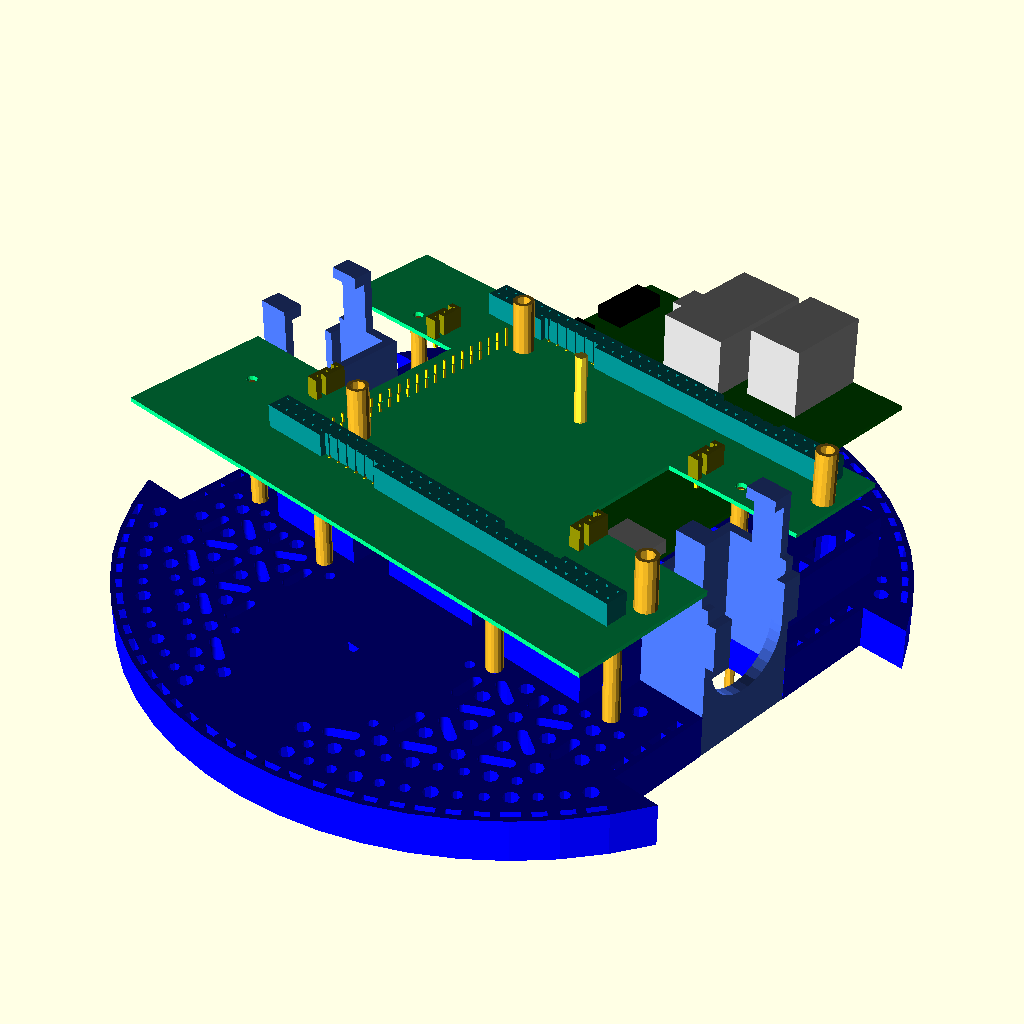
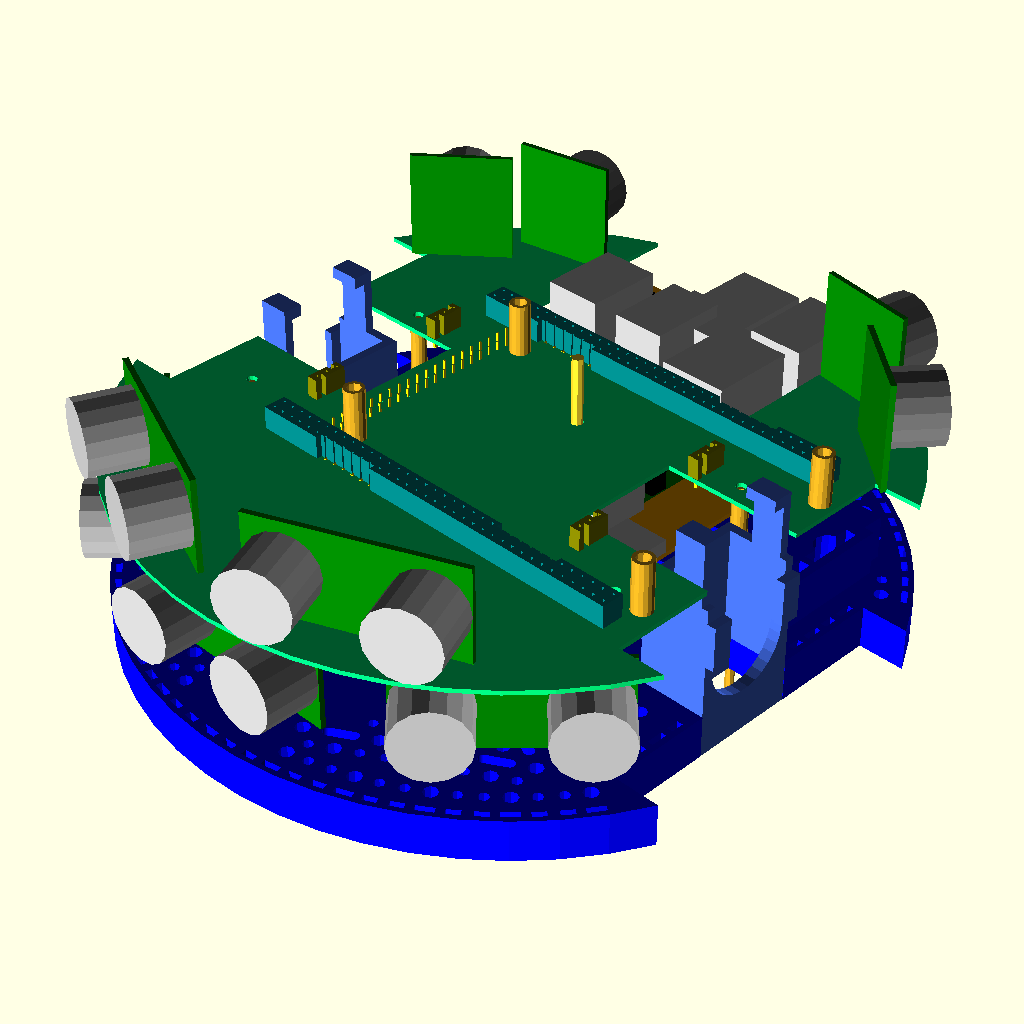
Added some sonars to the master board.

Changed region(s): [[0.0625, 0.3438, 0.7188, 0.7812], [0.375, 0.125, 0.9375, 0.5]]

diff --git a/mechanical/scad_models/scad_models.py b/mechanical/scad_models/scad_models.py
@@ -448,6 +448,63 @@ class EncoderBoard:
         self.module: Module3D = module
 
 
+# HCSR04:
+class HCSR04:
+    """Represents an HC-SR04 sonar module."""
+
+    # HCSR04.__init__():
+    def __init__(self, scad_program: ScadProgram) -> None:
+        """Initialize anHCSR04."""
+        # Create the PCB:
+        pcb_dy: float = 20.60
+        pcb_dx: float = 44.50
+        pcb_dz: float = 1.20
+        pcb_square: Square = Square("HCSR04 PCB", pcb_dx, pcb_dy, center=P2D(0.0, pcb_dy / 2.0))
+        extruded_pcb: LinearExtrude = LinearExtrude("Extruded HCSR04 PCB", pcb_square, pcb_dz)
+        colored_pcb: Color = Color("Colored HRCSR04", extruded_pcb, "Green")
+
+        # Create the sonar cylinders:
+        sonar_diameter: float = 16.00
+        sonar_radius: float = sonar_diameter / 2.0
+        sonar_dz: float = 12.00
+        sonar_left_x: float = pcb_dx / 2.0 - sonar_radius
+        sonar_right_x: float = -pcb_dx / 2.0 + sonar_radius
+        sonar_start_z: float = pcb_dz
+        sonar_end_z: float = sonar_start_z + sonar_dz
+        left_start: P3D = P3D(sonar_left_x, pcb_dy/2, sonar_start_z)
+        left_end: P3D = P3D(sonar_left_x, pcb_dy/2, sonar_end_z)
+        right_start: P3D = P3D(sonar_right_x, pcb_dy/2, sonar_start_z)
+        right_end: P3D = P3D(sonar_right_x, pcb_dy/2, sonar_end_z)
+        left_cylinder: Cylinder = Cylinder("Left Sonar Transducer",
+                                           sonar_diameter, left_start, left_end, 16)
+        right_cylinder: Cylinder = Cylinder("Left Sonar Transducer",
+                                            sonar_diameter, right_start, right_end, 16)
+        colored_left_cylinder: Color = Color("Colored Left Sonar Transducer",
+                                             left_cylinder, "Silver")
+        colored_right_cylinder: Color = Color("Colored Right Sonar Transducer",
+                                              right_cylinder, "Silver")
+        hcsr04_union: Union3D = Union3D("HCSR04 Union", [
+            colored_pcb,
+            colored_left_cylinder,
+            colored_right_cylinder
+        ])
+
+        # Now tilt the sonar up followed by rotating it to vertical:
+        x_axis: P3D = P3D(1.0, 0.0, 0.0)
+        degrees90: float = pi / 2.0
+        vertical_hcsr04: Rotate3D = Rotate3D("Veritcal HC-SR04", hcsr04_union, degrees90, x_axis)
+        z_axis: P3D = P3D(0.0, 0.0, 1.0)
+        east_facing_hcsr04: Rotate3D = Rotate3D("East Facing HC-S404",
+                                                vertical_hcsr04, degrees90, z_axis)
+
+        # Create *module*, append to *scad_program*, and save into *hcsr04* (i.e. *self*):
+        module: Module3D = Module3D("HR SR04 Sonar Module", [east_facing_hcsr04])
+        scad_program.append(module)
+        scad_program.if3d.name_match_append("sonar", module, ["HC-SR04 Sonar"])
+        # hcsr04: HCSR04 = self
+        self.module: Module3D = module
+
+
 # HR2BaseAssembly:
 class HR2BaseAssembly:
     """Represents the HR2 base with motor holders and spacers."""
@@ -1038,9 +1095,9 @@ class MasterBoard:
         wheel_well_angle: float = asin(half_wheel_well_dy / radius)
 
         # By trial and error, the Pi connector *cutout_dx* (=|GE|) = 60mm and the *cut_out_y*
-        # Fy (=|FZ|) is 33mm.  The same basic math yields the *cut_out_angle*
+        # Fy (=|FZ|) is 32.5mm.  The same basic math yields the *cut_out_angle*
         # (Dx=R*cos(@) => @=acos(Dx/R) ):
-        cut_out_y: float = 33.0
+        cut_out_y: float = 32.5
         cut_out_dx: float = 60.0
         half_cut_out_dx: float = cut_out_dx / 2.0
         cut_out_angle: float = acos(half_cut_out_dx / radius)
@@ -1263,10 +1320,64 @@ class MasterBoard:
                                                   P3D(0.0, 0.0, pcb_bottom_z))
         colored_pcb: Color = Color("Green Color", translated_pcb, "SpringGreen")
 
+        # Create some HC-SR04 sonars:
+        hcsr04: HCSR04 = HCSR04(scad_program)
+        srf02: SRF02 = SRF02(scad_program)
+        hcsr04_use_module: UseModule3D = hcsr04.module.use_module_get()
+        srf02_use_module: UseModule3D = srf02.module.use_module_get()
+        sonars: List[Scad3D] = []
+        degrees2radians: float = pi / 180.0
+        sonar_poses: List[Tuple[float, float, bool, bool]] = [
+            # (*rim_angle*, *beam_angle* (-1 => same), *on_bottom*, *is_srf02*)
+            ((90.0 - 2.4 * 22.5) * degrees2radians,
+             (90.0 - 40.0) * degrees2radians, False, True),
+            ((90.0 - 1.6 * 22.5) * degrees2radians,
+             (90.0 - 10.0) * degrees2radians, False, True),
+            # No rear center sonar:
+            ((90.0 + 1.6 * 22.5) * degrees2radians,
+             (90.0 + 10.0) * degrees2radians, False, True),
+            ((90.0 + 2.4 * 22.5) * degrees2radians,
+             (90.0 + 40.0) * degrees2radians, False, True),
+            # Front Sonars:
+            ((270.0 - 2 * 22.5) * degrees2radians, -1.0, True, False),
+            ((270.0 - 1 * 22.5) * degrees2radians, -1.0, False, False),
+            ((270.0) * degrees2radians, -1.0, True, False),
+            ((270.0 + 1 * 22.5) * degrees2radians, -1.0, False, False),
+            ((270.0 + 2 * 22.5) * degrees2radians, -1.0, True, False)]
+        x_axis: P3D = P3D(1.0, 0.0, 0.0)
+        z_axis: P3D = P3D(0.0, 0.0, 1.0)
+        sonars_radius: float = 70.0
+        rim_angle: float
+        beam_angle: float
+        on_bottom: bool
+        is_srf02: bool
+        for rim_angle, beam_angle, on_bottom, is_srf02 in sonar_poses:
+            if beam_angle < 0.0:
+                beam_angle = rim_angle
+            angle_text: str = f"{rim_angle * 180.0 / pi}deg:{on_bottom}"
+            sonar_z: float = pcb_top_z
+            sonar: Scad3D = srf02_use_module if is_srf02 else hcsr04_use_module
+
+            # Deal with *on_bottom* first:
+            if on_bottom:
+                sonar_z = pcb_bottom_z
+                sonar = Rotate3D(f"Bottom Sonar ({angle_text})", sonar, degrees180, x_axis)
+
+            # Now rotate the *sonar* by *beam_angle* along the *z_axis*:
+            sonar = Rotate3D(f"Rotated Sonar ({angle_text})", sonar, beam_angle, z_axis)
+
+            # Now position *sonar* to *sonar_position* along the rim and tack onto *sonars* list:
+            sonar_x: float = sonars_radius * cos(rim_angle)
+            sonar_y: float = sonars_radius * sin(rim_angle)
+            sonar_position: P3D = P3D(sonar_x, sonar_y, sonar_z)
+            sonar = Translate3D(f"Translated Sonar ({angle_text})", sonar, sonar_position)
+            sonars.append(sonar)
+
         # Create *module*, append it to *scad_program* and stuff it into *master_pcb* (i.e. *self*):
         module: Module3D = Module3D("Master Board Module",
                                     (encoder_receptacles_use_modules +
                                      nucleo144_spacers +
+                                     sonars +
                                      [colored_pcb,
                                       receptacle_2x20.module.use_module_get(),
                                       north_morpho_connector.module.use_module_get(),
@@ -3864,6 +3975,53 @@ class Spacer:
         colored_washer: Color = Color(f"{washer_color} {name}", translated_washer, washer_color)
         spacer_stack.append(colored_washer)
         return start_z + washer_height
+
+
+# SRF02:
+class SRF02:
+    """Represents an Devantech SRF02 sonar module."""
+
+    # HCSR04.__init__():
+    def __init__(self, scad_program: ScadProgram) -> None:
+        """Initialize anHCSR04."""
+        # Create the PCB:
+        pcb_dy: float = 24.0
+        pcb_dx: float = 22.0
+        pcb_dz: float = 1.20
+        pcb_square: Square = Square("SRF02 PCB", pcb_dx, pcb_dy, center=P2D(0.0, pcb_dy / 2.0))
+        extruded_pcb: LinearExtrude = LinearExtrude("Extruded SRF02 PCB", pcb_square, pcb_dz)
+        colored_pcb: Color = Color("Colored HRCSR04", extruded_pcb, "Green")
+
+        # Create the sonar transducer:
+        transducer_diameter: float = 16.00
+        transducer_dz: float = 12.00  # Pure guess, not in spec. sheet
+        transducer_start_z: float = pcb_dz
+        transducer_end_z: float = transducer_start_z + transducer_dz
+        transducer_start: P3D = P3D(0.0, pcb_dy/2, transducer_start_z)
+        transducer_end: P3D = P3D(0.0, pcb_dy/2, transducer_end_z)
+        transducer: Cylinder = Cylinder("Left Sonar Transducer",
+                                        transducer_diameter, transducer_start, transducer_end, 16)
+        colored_transducer: Color = Color("Colored Sonar Transducer", transducer, "Gray")
+
+        srf02_union: Union3D = Union3D("SRF02 Union", [
+            colored_pcb,
+            colored_transducer
+        ])
+
+        # Now tilt the sonar up followed by rotating it to vertical:
+        x_axis: P3D = P3D(1.0, 0.0, 0.0)
+        degrees90: float = pi / 2.0
+        vertical_srf02: Rotate3D = Rotate3D("Veritcal SRF02", srf02_union, degrees90, x_axis)
+        z_axis: P3D = P3D(0.0, 0.0, 1.0)
+        east_facing_srf02: Rotate3D = Rotate3D("East Facing SRF02",
+                                               vertical_srf02, degrees90, z_axis)
+
+        # Create *module*, append to *scad_program*, and save into *srf02* (i.e. *self*):
+        module: Module3D = Module3D("SRF02 Sonar Module", [east_facing_srf02])
+        scad_program.append(module)
+        scad_program.if3d.name_match_append("sonar", module, ["SRF02 Sonar"])
+        # srf02: SRF02 = self
+        self.module: Module3D = module
 
 
 def main() -> int:  # pragma: no cover

diff --git a/mechanical/scad_models/scad.py b/mechanical/scad_models/scad.py
@@ -2206,7 +2206,7 @@ class Square(SimplePolygon):
             center_x: float = center.x
             center_y: float = center.y
             square_indent: str = indent
-            if center_x != 0.0 and center_y != 0.0:
+            if center_x != 0.0 or center_y != 0.0:
                 scad_lines.append(f"{square_indent}translate([{float_format(center.x)}, "
                                   f"{float_format(center_y)}])")
                 square_indent += " "

diff --git a/mechanical/README.md b/mechanical/README.md
@@ -268,6 +268,12 @@ systems and Linux distributions you are on your own.
   * `romi_base`:
     Romi Base Polygon
 
+  * `sonar`:
+    HC-SR04 Sonar
+
+  * `sonar`:
+    SRF02 Sonar
+
   * `wheel_assembly`:
     Wheel Assembly
 
